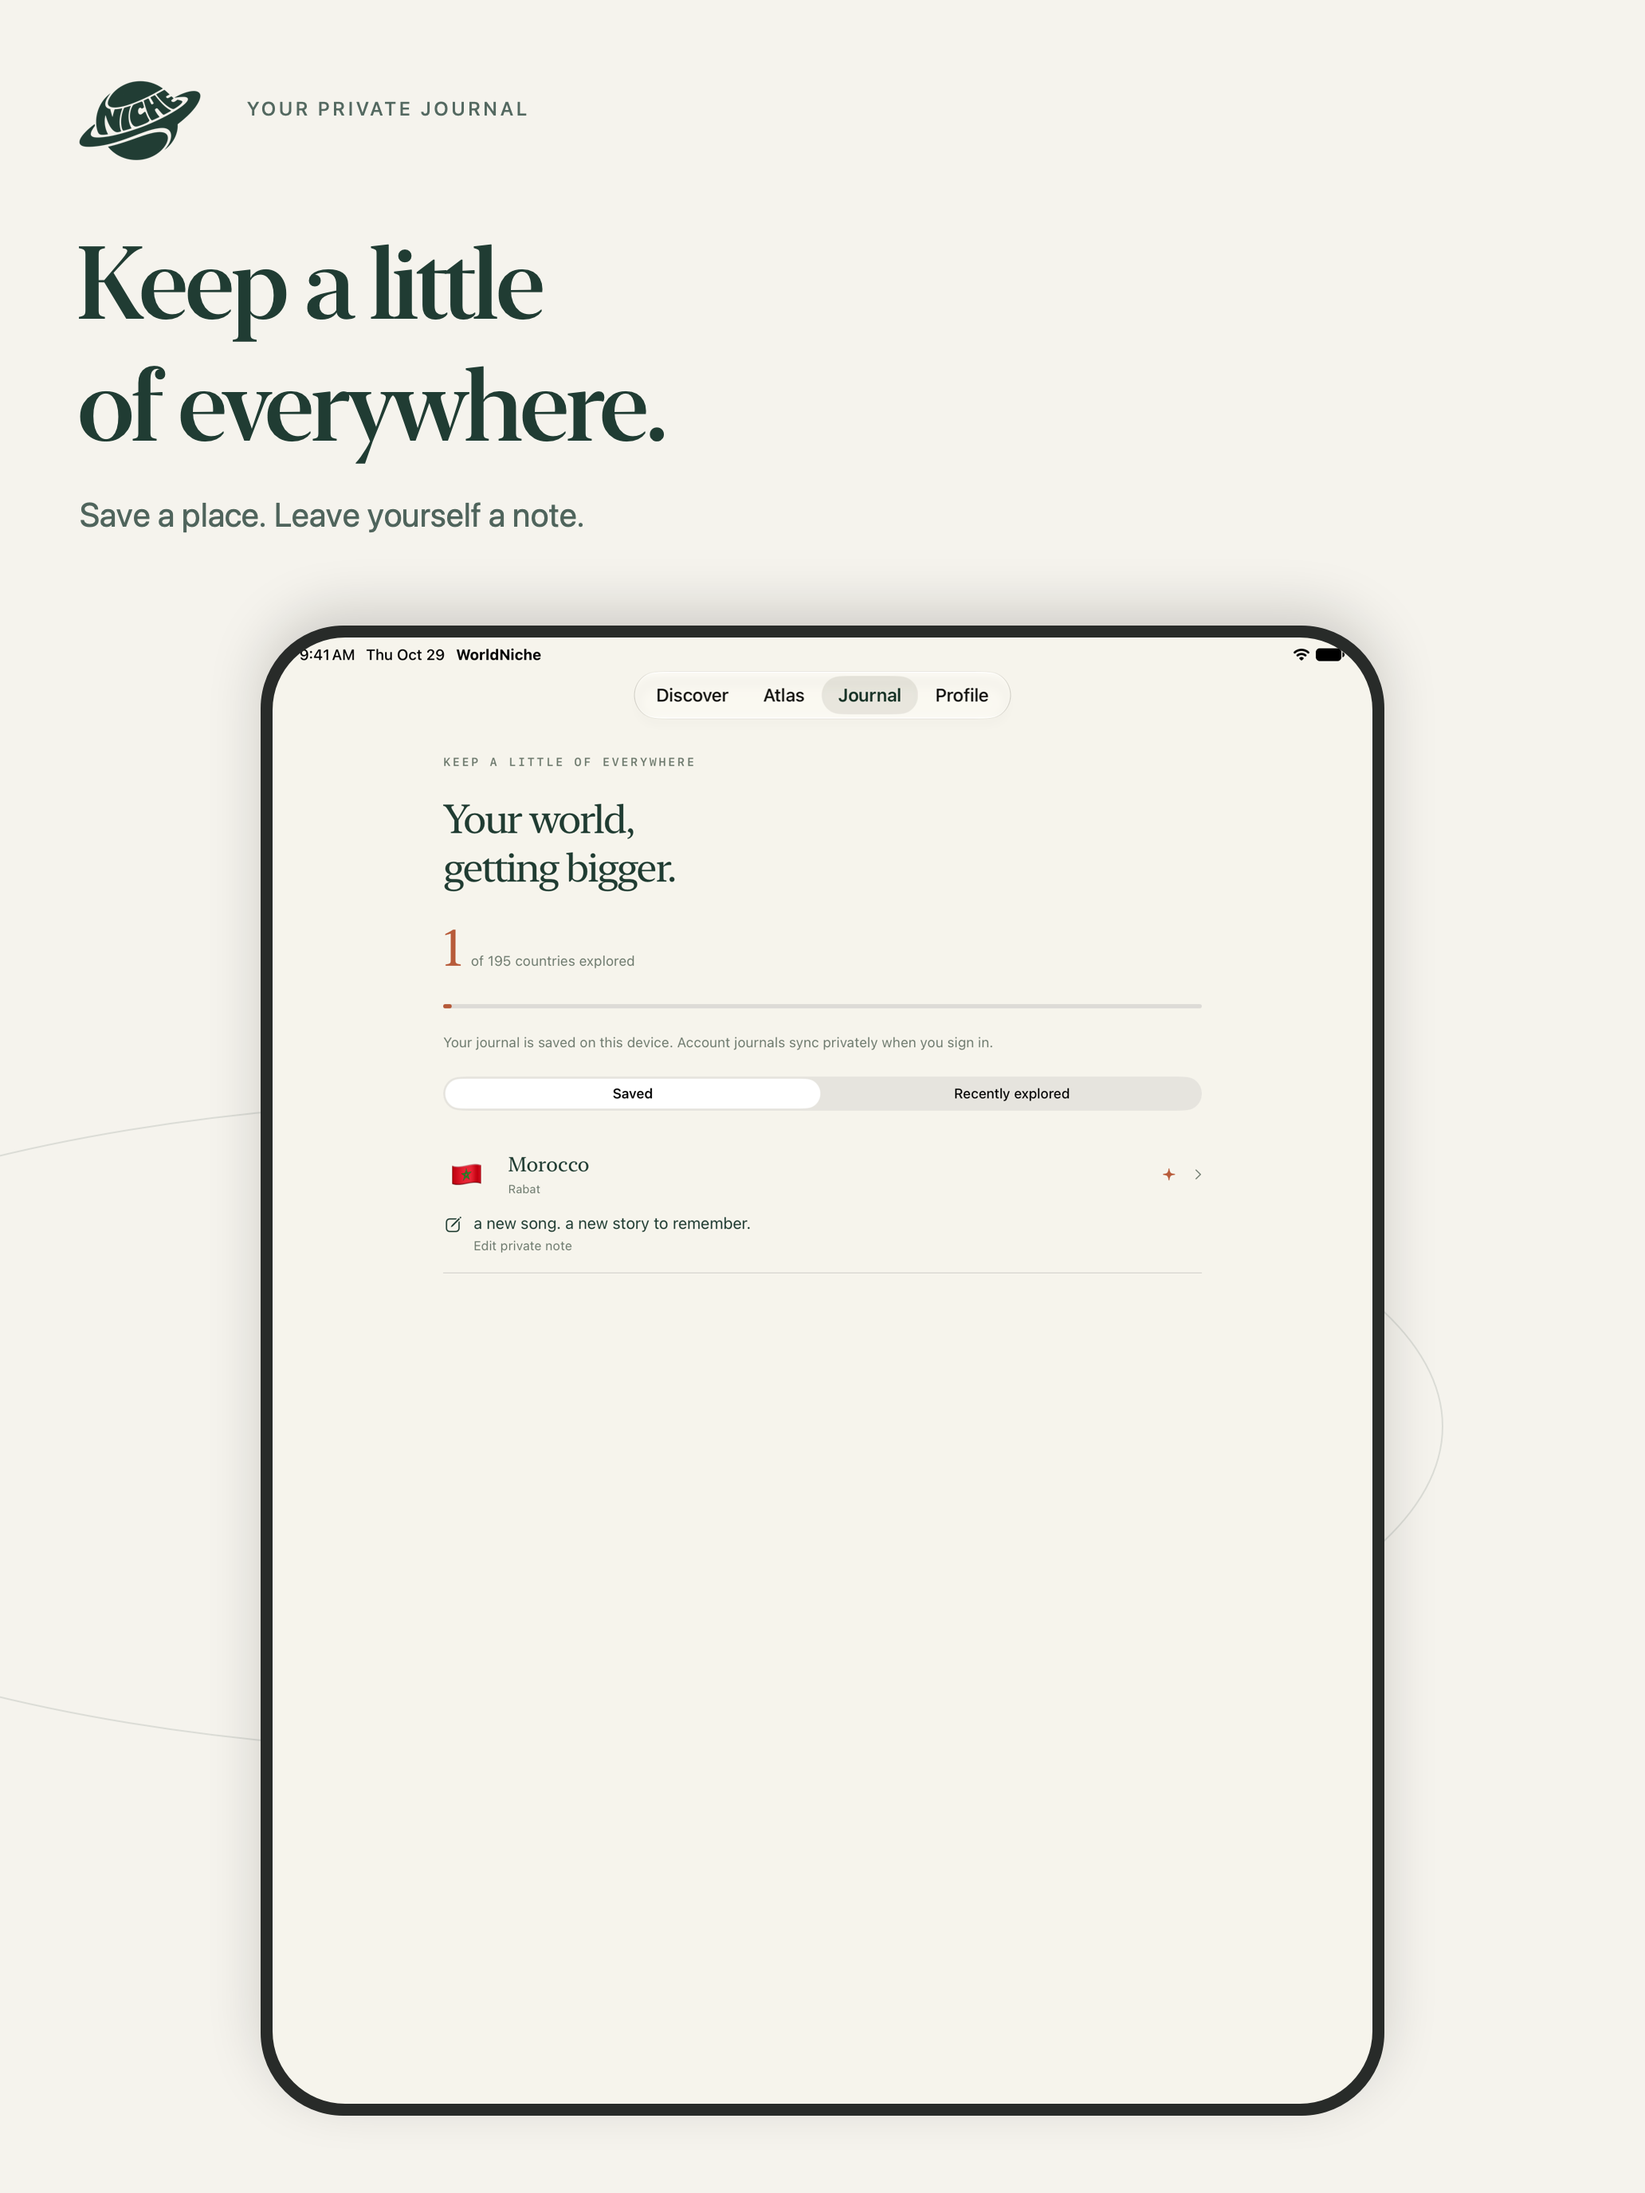
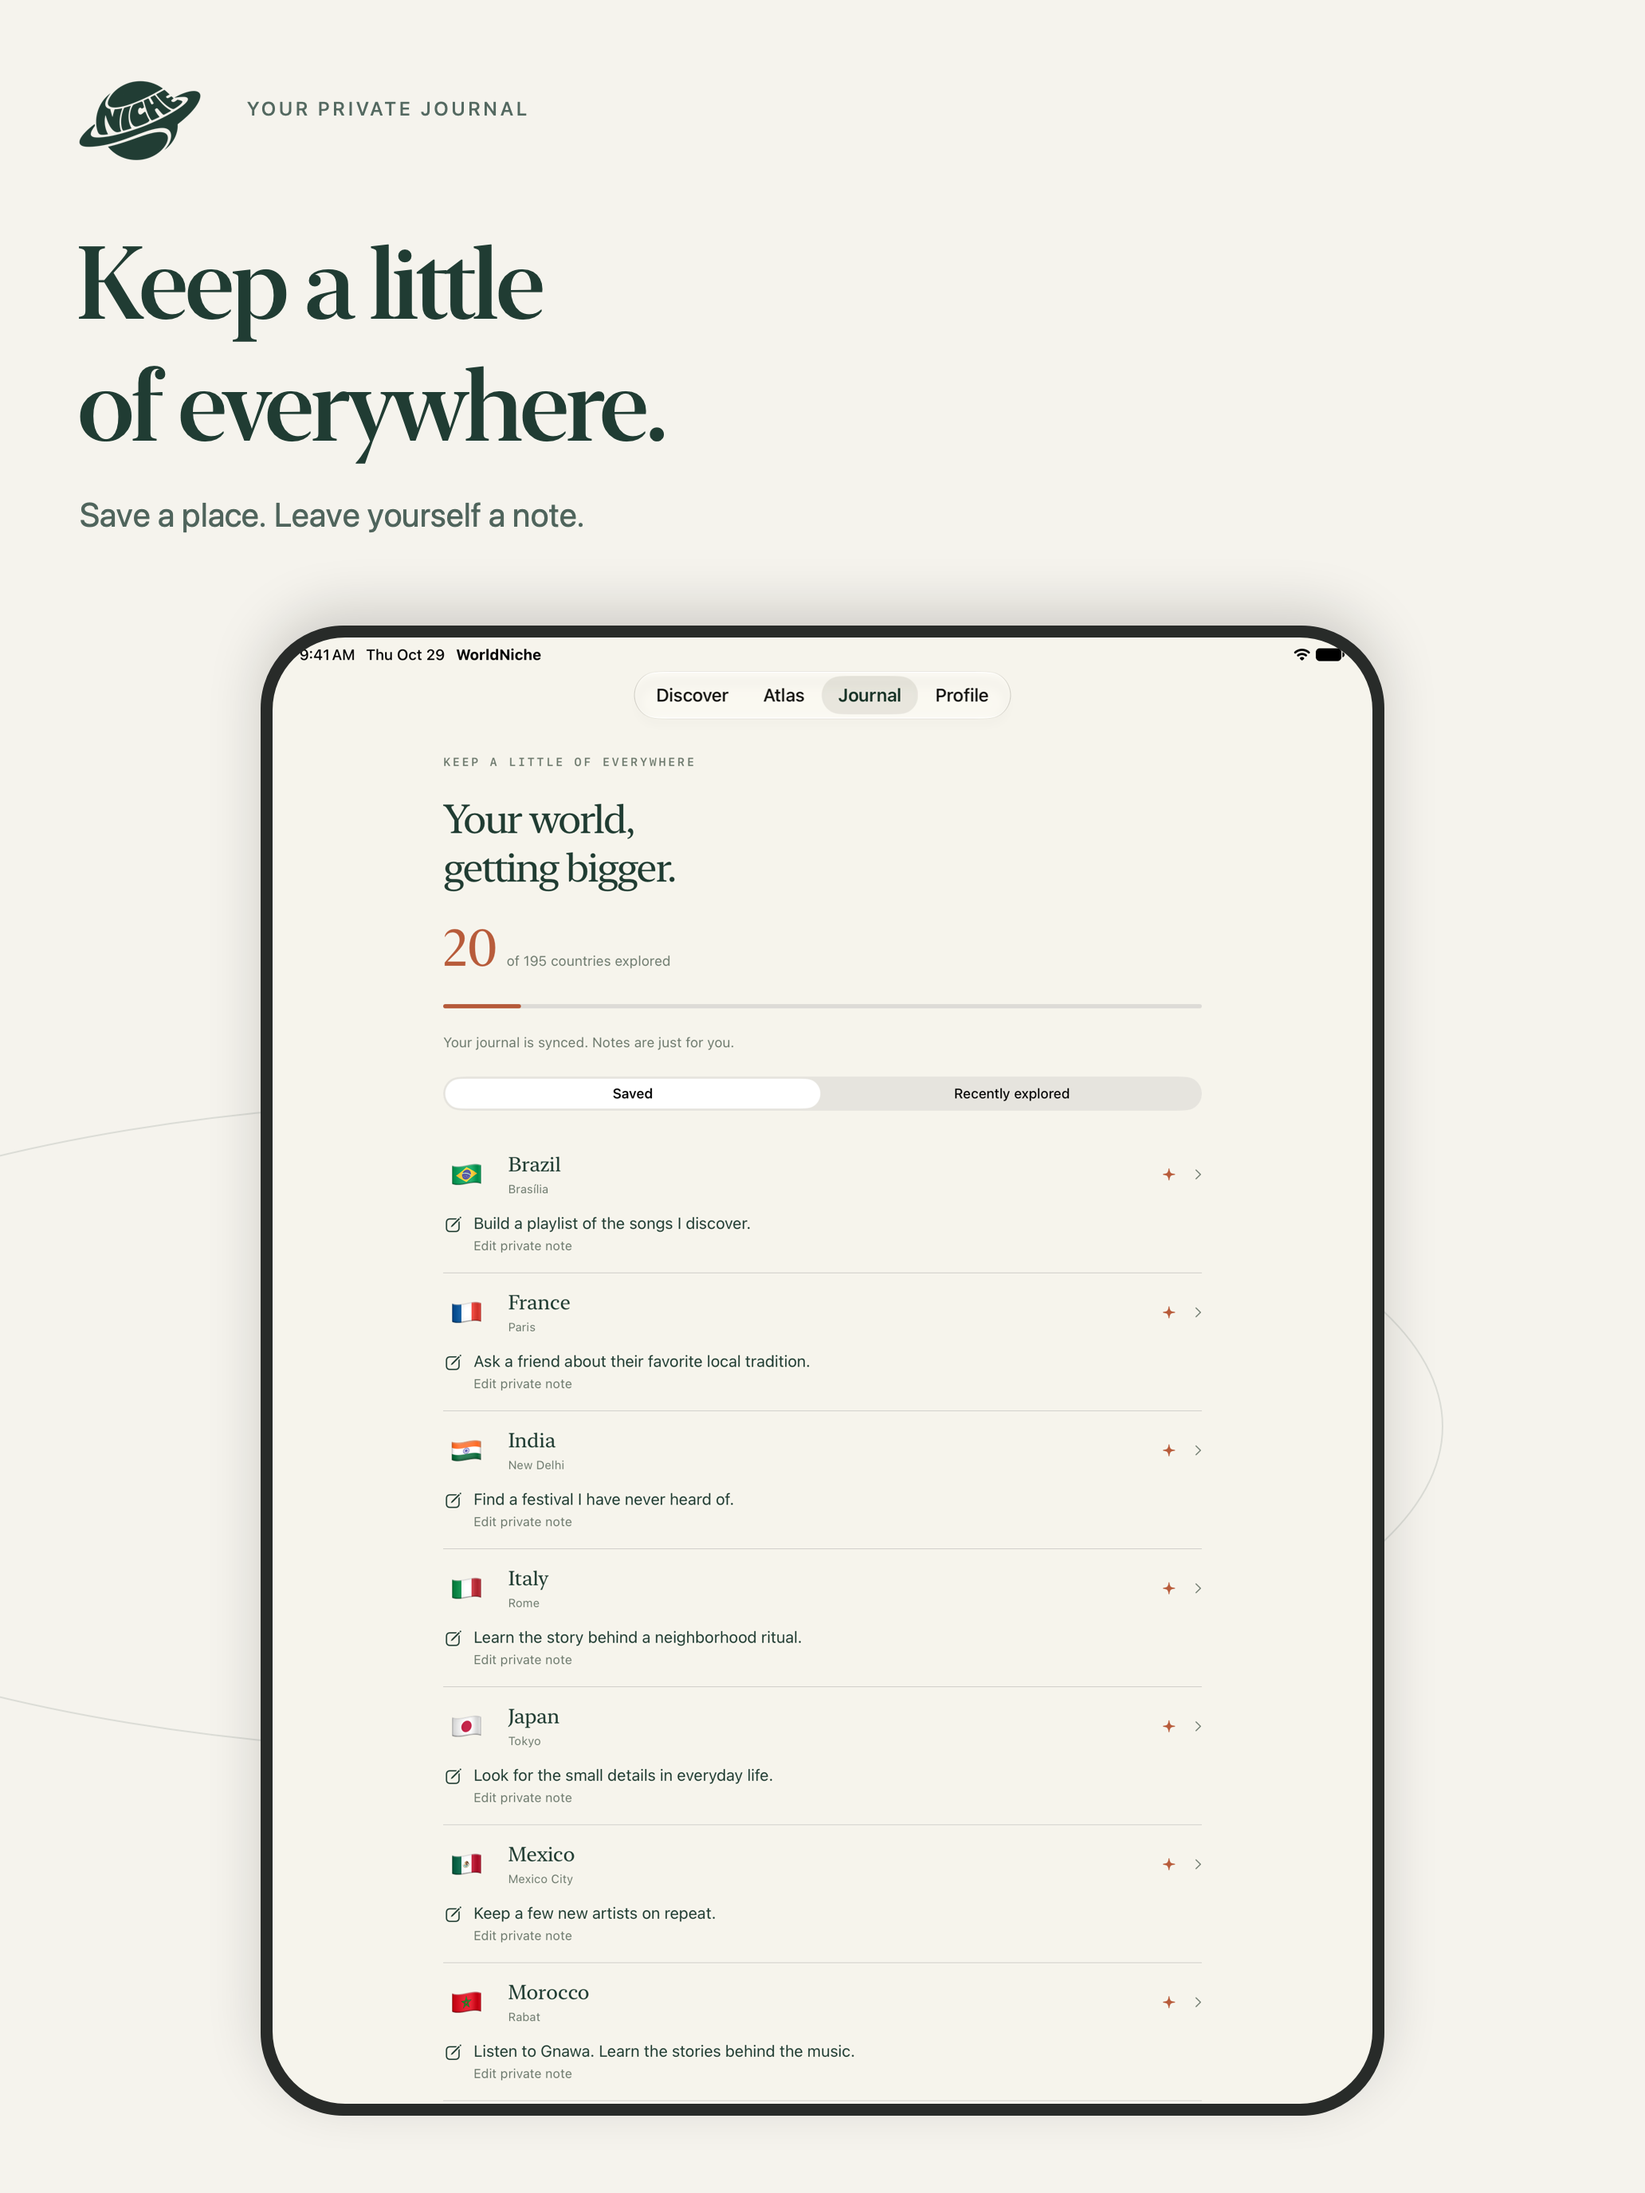
Fill the App Store journal and give Mira her portrait

diff --git a/apps/ios/WorldNiche/Services/Social/SocialUITestFixture.swift b/apps/ios/WorldNiche/Services/Social/SocialUITestFixture.swift
@@ -10,7 +10,7 @@ enum SocialUITestFixture {
         let arguments = ProcessInfo.processInfo.arguments
         if let index = arguments.firstIndex(of: "-worldniche-journal-fixture"), arguments.indices.contains(index + 1),
            let defaults = UserDefaults(suiteName: "io.worldniche.app.journal-ui-fixture") {
-            if arguments[index + 1] == "reset" {
+            if ["reset", "marketing"].contains(arguments[index + 1]) {
                 defaults.removePersistentDomain(forName: "io.worldniche.app.journal-ui-fixture")
             }
             let journal = DiscoveryJournal(defaults: defaults)
@@ -18,15 +18,20 @@ enum SocialUITestFixture {
                 journal.visit(country)
                 journal.toggleSaved(country)
             }
+            if arguments[index + 1] == "marketing" { seedMarketingJournal(journal) }
             return (journal, SocialStore(journal: journal, defaults: defaults, configuration: nil))
         }
         guard let index = arguments.firstIndex(of: "-worldniche-social-fixture"), arguments.indices.contains(index + 1),
-              ["approval", "retry", "manual", "friend", "photo", "signup", "signup-photo-failure", "existing-private"].contains(arguments[index + 1]) else { return nil }
+              ["approval", "retry", "manual", "friend", "photo", "signup", "signup-photo-failure", "existing-private", "marketing"].contains(arguments[index + 1]) else { return nil }
         let mode = arguments[index + 1]
         let suite = "io.worldniche.app.simulator-ui-fixture"
         guard let defaults = UserDefaults(suiteName: suite) else { return nil }
         defaults.removePersistentDomain(forName: suite)
         let journal = DiscoveryJournal(defaults: defaults)
+        if mode == "marketing" {
+            defaults.set(SocialUIResponses.owner.uuidString, forKey: "niche.localOwnerID")
+            seedMarketingJournal(journal)
+        }
         let configuration = SocialConfiguration(serviceURL: URL(string: "https://social-ui.example.test")!,
                                                 publicAPIKey: "ui-fixture-public-key", invitationHost: "invite.example.test",
                                                 privacyPolicyURL: nil, supportURL: nil)
@@ -36,6 +41,30 @@ enum SocialUITestFixture {
         SocialUIResponses.shared.reset(mode: mode)
         let api = SocialAPI(configuration: configuration, transport: URLSession(configuration: transport), vault: SocialUIVault())
         return (journal, SocialStore(journal: journal, defaults: defaults, configuration: configuration, api: api))
+    }
+
+    private static func seedMarketingJournal(_ journal: DiscoveryJournal) {
+        let saved = [
+            ("BR", "Build a playlist of the songs I discover."),
+            ("FR", "Ask a friend about their favorite local tradition."),
+            ("IN", "Find a festival I have never heard of."),
+            ("IT", "Learn the story behind a neighborhood ritual."),
+            ("JP", "Look for the small details in everyday life."),
+            ("MX", "Keep a few new artists on repeat."),
+            ("MA", "Listen to Gnawa. Learn the stories behind the music."),
+            ("PT", "Find a local story to bring to dinner."),
+            ("SN", "Explore the music beyond the charts."),
+            ("KR", "Save a new point of view for later.")
+        ]
+        for (id, note) in saved {
+            guard let country = CountryRepository.country(id: id) else { continue }
+            journal.visit(country)
+            journal.toggleSaved(country)
+            journal.saveNote(note, for: country)
+        }
+        for id in ["AR", "AU", "CA", "EG", "GE", "GR", "ID", "KE", "NZ", "TR"] {
+            if let country = CountryRepository.country(id: id) { journal.visit(country) }
+        }
     }
 }
 
@@ -86,6 +115,20 @@ private final class SocialUIResponses: @unchecked Sendable {
             UIColor.red.setFill()
             context.fill(CGRect(x: 0, y: 0, width: 44, height: 44))
         }.jpegData(compressionQuality: 0.9) ?? Data()
+        if mode == "marketing" {
+            ownerPhotoPath = "\(Self.owner.uuidString.lowercased())/88888888-8888-4888-8888-888888888888.jpg"
+            sharing = true
+            let avatar = UIImage(named: "IntroAvatarB")!
+            let format = UIGraphicsImageRendererFormat()
+            format.scale = 1
+            format.opaque = true
+            photo = UIGraphicsImageRenderer(size: CGSize(width: 512, height: 512), format: format).image { context in
+                UIColor(red: 0.86, green: 0.90, blue: 0.82, alpha: 1).setFill()
+                context.fill(CGRect(x: 0, y: 0, width: 512, height: 512))
+                avatar.draw(in: CGRect(x: 0, y: 0, width: 512, height: 512))
+            }.jpegData(compressionQuality: 0.9)!
+            precondition(AvatarPhotoReference.isValidJPEG(photo))
+        }
     }
 
     func response(_ request: URLRequest) -> (Int, Data, TimeInterval) {

diff --git a/apps/ios/WorldNicheUITests/JournalUITests.swift b/apps/ios/WorldNicheUITests/JournalUITests.swift
@@ -4,6 +4,34 @@ final class JournalUITests: XCTestCase {
     override func setUpWithError() throws { continueAfterFailure = false }
 
     @MainActor
+    func testMarketingJournalShowsSeveralSavedPlacesAndNotes() {
+        let app = launch(mode: "marketing")
+        openJournal(app)
+        XCTAssertTrue(app.buttons["journalNote_BR"].waitForExistence(timeout: 8))
+        XCTAssertTrue(app.buttons["journalNote_FR"].exists)
+        XCTAssertTrue(app.buttons["journalNote_IN"].exists)
+        XCTAssertTrue(app.staticTexts["Build a playlist of the songs I discover."].exists)
+        app.buttons["journalNote_BR"].tap()
+        XCTAssertEqual(app.textViews["journalNoteEditor"].value as? String, "Build a playlist of the songs I discover.")
+        app.buttons["cancelJournalNote"].tap()
+        capture("Populated marketing journal", app)
+    }
+
+    @MainActor
+    func testMarketingProfileLoadsOwnerAndFriend() {
+        let app = XCUIApplication()
+        app.launchArguments = ["-worldniche-skip-intro", "-worldniche-social-fixture", "marketing"]
+        app.launch()
+        let tab = app.tabBars.buttons["Profile"]
+        (tab.exists ? tab : app.buttons["Profile"].firstMatch).tap()
+        XCTAssertTrue(app.staticTexts["Mira"].waitForExistence(timeout: 8))
+        XCTAssertTrue(app.staticTexts["Jun"].waitForExistence(timeout: 8))
+        XCTAssertTrue(app.staticTexts["20"].exists)
+        XCTAssertTrue(app.staticTexts["10"].exists)
+        capture("Marketing profile with illustrated photo", app)
+    }
+
+    @MainActor
     func testNoteSaveRelaunchEditCancelAndErase() {
         let app = launch(mode: "reset")
         openJournal(app)

diff --git a/marketing/app-store/README.md b/marketing/app-store/README.md
@@ -13,7 +13,7 @@ The first listing, with Morocco as the demo destination. Captured from WorldNich
 
 All ten screenshots and the preview have finished processing in App Store Connect for version 1.0, English (U.S.). The preview shows the globe rotating and Morocco's overview opening. It uses H.264 video and a silent AAC stereo track, with no commercial music. Its final frame is held briefly for readability.
 
-`source/` holds the actual UI captures. Journal notes and the Mira/Jun friend profiles are simulator fixtures, not real users or production records. The Duo captures use the active inner display (`primary-1`); the outer display is blank when unfolded. No app UI was painted into these screenshots.
+`source/` holds the actual UI captures. Journal notes and the Mira/Jun friend profiles are simulator fixtures, not real users or production records. The journal has 20 explored countries and 10 saved countries with notes. Mira uses the existing girl illustration from onboarding. The Duo captures use the active inner display (`primary-1`); the outer display is blank when unfolded. No app UI was painted into these screenshots.
 
 Run `swift marketing/app-store/render.swift` from the repository root on macOS to rebuild the posters. Rendered screenshots are opaque sRGB PNGs. The renderer preserves each screen's proportions. The current App Store CLI recognizes the iPhone and iPad sizes; the Duo sizes were checked against Apple's upload page and uploaded there.
 
